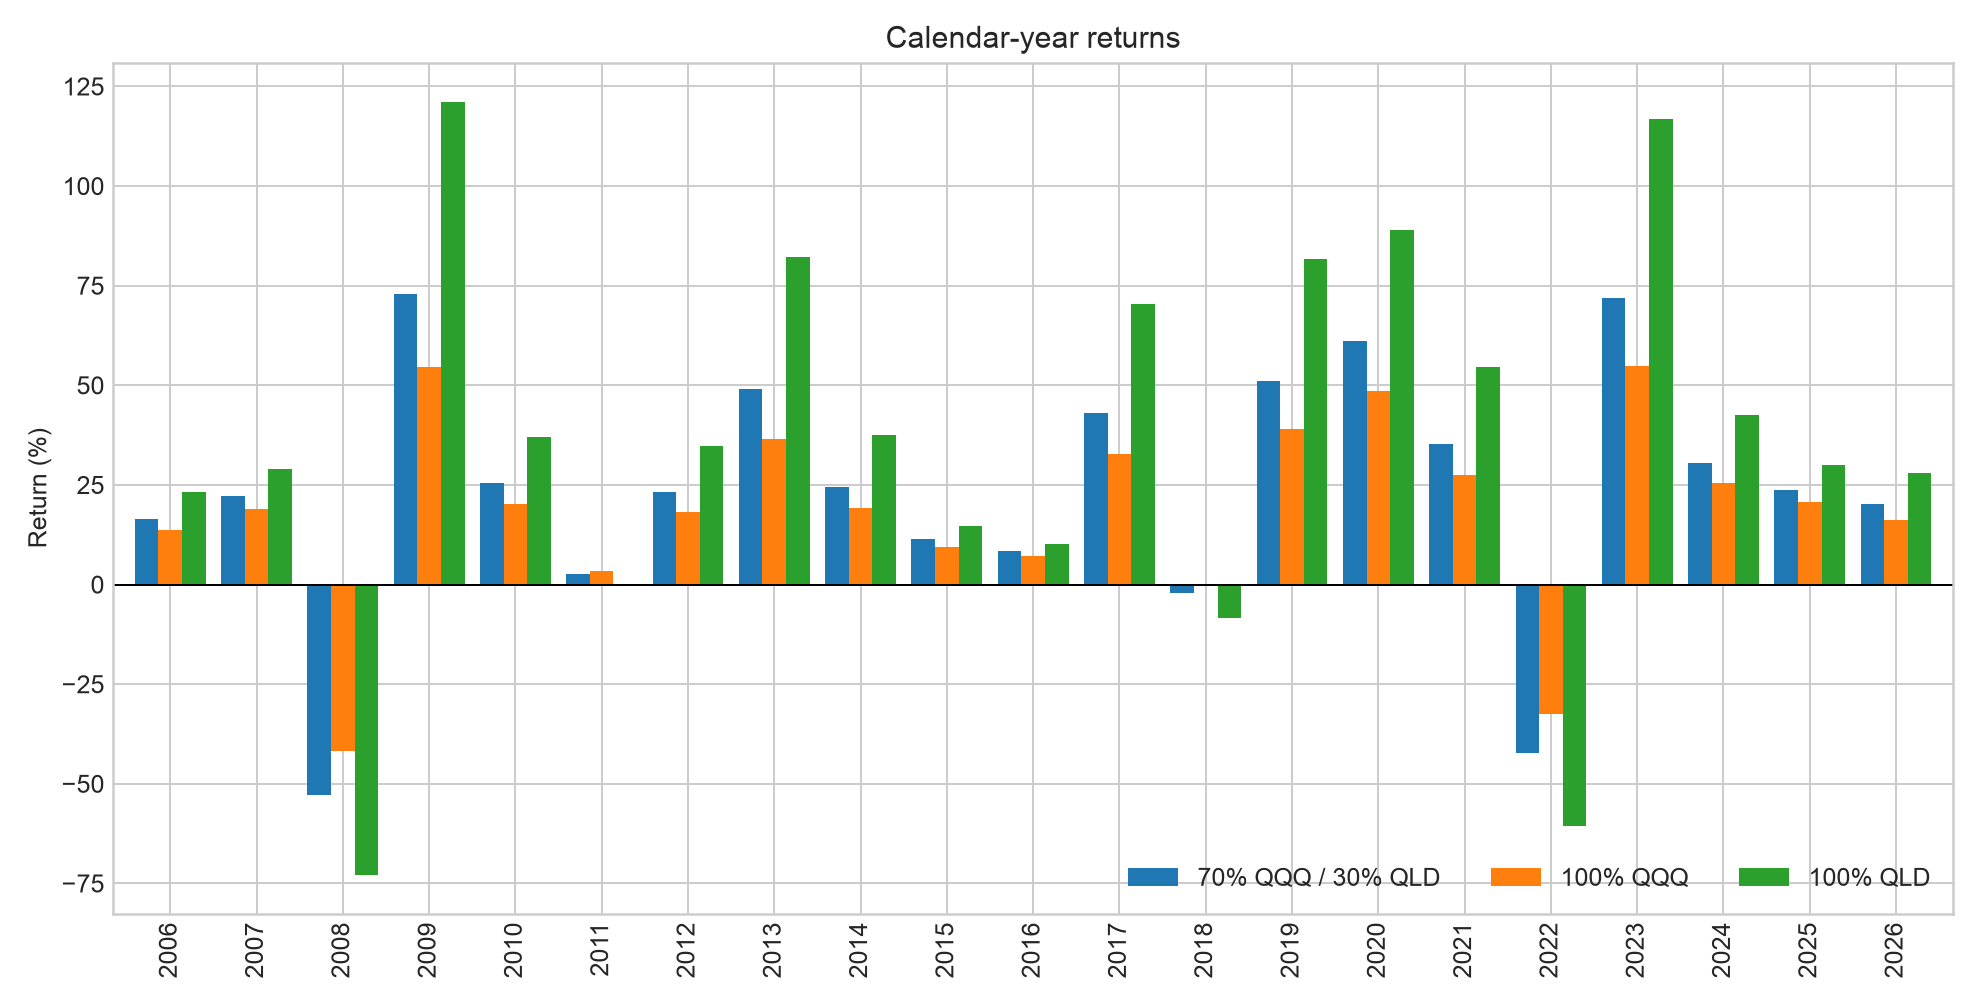
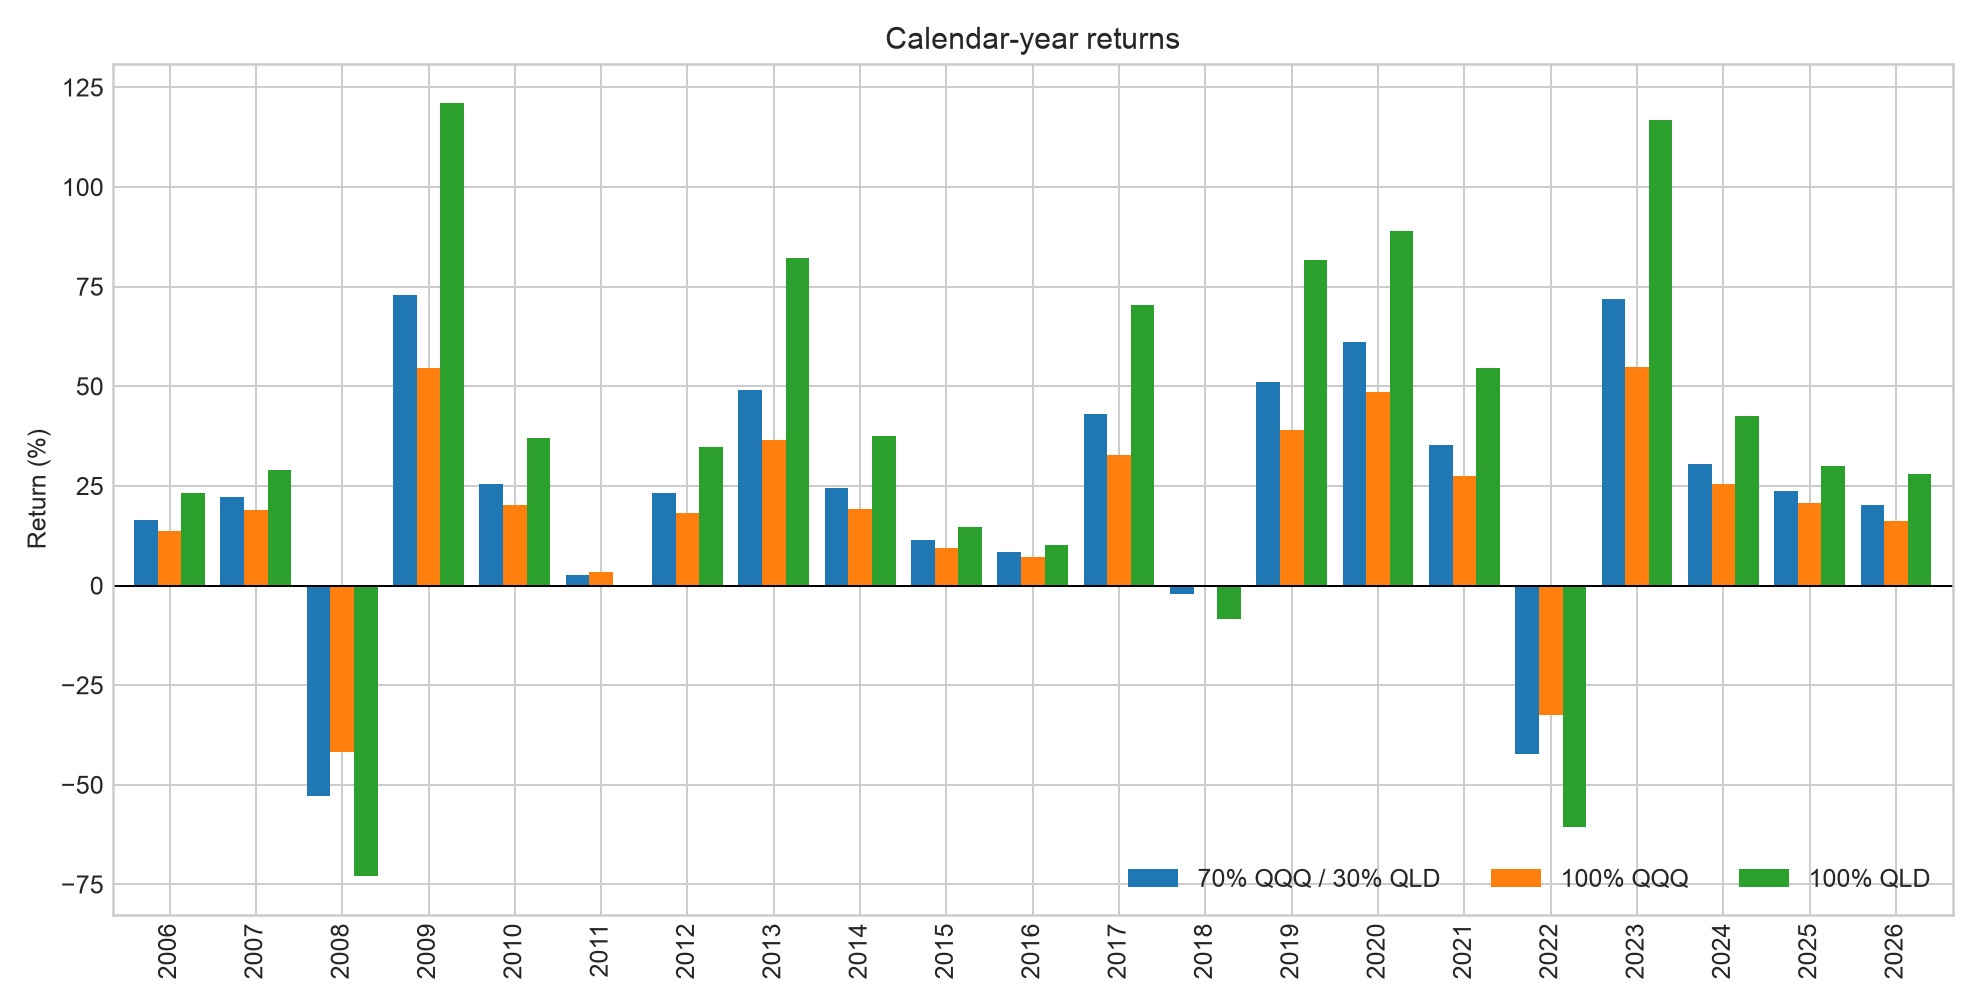
Tie the standalone 70/30 backtest to the main pipeline's leverage and mu-sensitivity findings
The dedicated 70% QQQ / 30% QLD backtest presented trailing CAGR without the
caveats the main pipeline now carries: it never quantified the gap between
this ME-rebalanced blend and the idealized 1.30x daily-reset product it
targets, and it treated the historical 19.7% CAGR without noting that Kelly
leverage is highly sensitive to unreliable forward-mu assumptions. Reuse
qqq_qld.leverage.rebalance_drag and qqq_qld.optimize.kelly_sensitivity to add
both to this backtest's own README and CSV outputs.

diff --git a/qqq-qld/backtests/qqq70_qld30/run_backtest.py b/qqq-qld/backtests/qqq70_qld30/run_backtest.py
@@ -16,13 +16,16 @@ sys.path.insert(0, str(ROOT / "src"))
 
 from qqq_qld.backtest import portfolio_returns  # noqa: E402
 from qqq_qld.data import download_prices, prices_to_returns  # noqa: E402
+from qqq_qld.leverage import rebalance_drag  # noqa: E402
 from qqq_qld.metrics import drawdown, performance_metrics  # noqa: E402
+from qqq_qld.optimize import kelly_optimal_leverage, kelly_sensitivity  # noqa: E402
 
 STRATEGIES = {
     "70% QQQ / 30% QLD": 0.30,
     "100% QQQ": 0.00,
     "100% QLD": 1.00,
 }
+TARGET_WEIGHT_QLD = 0.30
 
 
 def _strategy_returns(returns: pd.DataFrame, rebalance: str, cost_bps: float) -> pd.DataFrame:
@@ -129,11 +132,35 @@ def _pct(value: float) -> str:
     return f"{value:.1%}"
 
 
+def _kelly_sensitivity_table(
+    returns: pd.DataFrame, optimization_cfg: dict, risk_free_rate: float
+) -> pd.DataFrame:
+    """Show how the Kelly-implied weight shifts under alternative forward-mu assumptions.
+
+    sigma2 is held fixed (better estimated than mu; see docs/methodology.md section
+    6.2). The trailing sample estimate is added automatically alongside whatever
+    scenarios are configured in config/default.yaml under optimization.mu_scenarios.
+    """
+    kelly = kelly_optimal_leverage(returns, asset="QQQ", annual_risk_free_rate=risk_free_rate)
+    mu_scenarios = {
+        "Trailing sample (this backtest)": kelly["mu"],
+        **optimization_cfg.get("mu_scenarios", {}),
+    }
+    sensitivity = kelly_sensitivity(kelly["sigma2"], mu_scenarios)
+    sensitivity["this_backtest_qld_weight"] = TARGET_WEIGHT_QLD
+    sensitivity["gap_vs_half_kelly"] = (
+        TARGET_WEIGHT_QLD - sensitivity["half_kelly_qld_weight"]
+    )
+    return sensitivity
+
+
 def _write_readme(
     strategy_returns: pd.DataFrame,
     summary: pd.DataFrame,
     annual: pd.DataFrame,
     episodes: pd.DataFrame,
+    drag: dict[str, float | str],
+    sensitivity: pd.DataFrame,
     rebalance: str,
     cost_bps: float,
     initial_value: float,
@@ -161,6 +188,34 @@ def _write_readme(
     display_episodes = episodes.copy()
     if not display_episodes.empty:
         display_episodes["max_drawdown"] = display_episodes["max_drawdown"].map(_pct)
+
+    display_sensitivity = sensitivity.copy()
+    display_sensitivity["assumed_mu"] = display_sensitivity["assumed_mu"].map(_pct)
+    display_sensitivity["full_kelly_leverage"] = display_sensitivity["full_kelly_leverage"].map(
+        lambda x: f"{x:.2f}x"
+    )
+    display_sensitivity["half_kelly_leverage"] = display_sensitivity["half_kelly_leverage"].map(
+        lambda x: f"{x:.2f}x"
+    )
+    display_sensitivity["full_kelly_qld_weight"] = display_sensitivity[
+        "full_kelly_qld_weight"
+    ].map(lambda x: f"{x:.0%}")
+    display_sensitivity["half_kelly_qld_weight"] = display_sensitivity[
+        "half_kelly_qld_weight"
+    ].map(lambda x: f"{x:.0%}")
+    display_sensitivity["gap_vs_half_kelly"] = display_sensitivity["gap_vs_half_kelly"].map(
+        lambda x: f"{x * 100:+.0f}pp"
+    )
+    display_sensitivity = display_sensitivity.drop(columns=["this_backtest_qld_weight"]).rename(
+        columns={
+            "assumed_mu": "Assumed μ",
+            "full_kelly_leverage": "Full-Kelly leverage",
+            "half_kelly_leverage": "Half-Kelly leverage",
+            "full_kelly_qld_weight": "Full-Kelly QLD weight",
+            "half_kelly_qld_weight": "Half-Kelly QLD weight",
+            "gap_vs_half_kelly": "30% QLD vs. half-Kelly",
+        }
+    )
 
     lines = [
         "# 70% QQQ / 30% QLD Backtest",
@@ -204,6 +259,39 @@ def _write_readme(
             else "No drawdowns found."
         ),
         "",
+        "## This is not a fixed 1.30x position",
+        "",
+        "70% QQQ + 30% QLD targets **1.30x** exposure, but that identity only holds exactly "
+        "under **daily** rebalancing. This backtest rebalances `ME` (month-end), so between "
+        "rebalances the two legs compound independently and realized exposure drifts away from "
+        "1.30x -- the table below compares this real, cost-inclusive blend to the idealized, "
+        "frictionless synthetic 1.30x daily-reset product it targets (see `qqq_qld.leverage` and "
+        "`docs/methodology.md` section 6.1):",
+        "",
+        f"| Target exposure | Synthetic CAGR | Actual CAGR | CAGR gap | Return correlation |\n"
+        f"|---:|---:|---:|---:|---:|\n"
+        f"| {drag['target_leverage']:.2f}x | {_pct(drag['synthetic_cagr'])} | "
+        f"{_pct(drag['actual_cagr'])} | {_pct(drag['cagr_gap'])} | "
+        f"{drag['return_correlation']:.3f} |",
+        "",
+        "## Forward-looking caveat: is 30% QLD still justified?",
+        "",
+        "The full-period result above (**19.7% CAGR**) describes this specific historical "
+        "window; it is not a forecast. Kelly-optimal leverage (`L* = mu / sigma^2`) is linear in "
+        "the assumed forward return `mu` but only quadratically penalized by variance -- and "
+        "`mu` is far less reliable to estimate from trailing data than variance is. The table "
+        "below holds this sample's volatility fixed and recomputes the Kelly-implied leverage "
+        "and QLD weight under alternative forward-`mu` assumptions (editable in "
+        "`config/default.yaml` under `optimization.mu_scenarios`; see `docs/methodology.md` "
+        "section 6.2 and the main [`results/summary.md`](../../results/summary.md)):",
+        "",
+        display_sensitivity.to_markdown(),
+        "",
+        "Under the trailing sample's own historical return, Kelly leverage would justify more "
+        "than this backtest's 30% QLD weight; under the more conservative, valuation-anchored "
+        "forward-return assumption it does not. Treat 30% QLD as one point on that spectrum, "
+        "not as a conclusion this backtest can supply on its own.",
+        "",
         "## Charts",
         "",
         "![Equity curve](assets/equity_curve.png)",
@@ -226,6 +314,8 @@ def _write_readme(
         "- `results/calendar_year_returns.csv`",
         "- `results/monthly_returns.csv`",
         "- `results/largest_drawdowns.csv`",
+        "- `results/rebalance_drag.csv`",
+        "- `results/kelly_sensitivity.csv`",
         "- `assets/equity_curve.png`",
         "- `assets/drawdowns.png`",
         "- `assets/calendar_year_returns.png`",
@@ -265,6 +355,14 @@ def main() -> None:
     annual = _period_returns(strategy_returns, "Y")
     monthly = _period_returns(strategy_returns[["70% QQQ / 30% QLD"]], "M")
     episodes = _drawdown_episodes(strategy_returns["70% QQQ / 30% QLD"])
+    drag = rebalance_drag(
+        returns,
+        TARGET_WEIGHT_QLD,
+        rebalance=portfolio_cfg["rebalance"],
+        transaction_cost_bps=portfolio_cfg["transaction_cost_bps"],
+        annual_risk_free_rate=risk_free_rate,
+    )
+    sensitivity = _kelly_sensitivity_table(returns, config["optimization"], risk_free_rate)
 
     results_dir = BACKTEST_DIR / "results"
     assets_dir = BACKTEST_DIR / "assets"
@@ -273,12 +371,16 @@ def main() -> None:
     annual.to_csv(results_dir / "calendar_year_returns.csv")
     monthly.to_csv(results_dir / "monthly_returns.csv")
     episodes.to_csv(results_dir / "largest_drawdowns.csv", index=False)
+    pd.DataFrame([drag]).to_csv(results_dir / "rebalance_drag.csv", index=False)
+    sensitivity.to_csv(results_dir / "kelly_sensitivity.csv")
     _save_figures(strategy_returns, assets_dir, portfolio_cfg["initial_value"])
     _write_readme(
         strategy_returns,
         summary,
         annual,
         episodes,
+        drag,
+        sensitivity,
         portfolio_cfg["rebalance"],
         portfolio_cfg["transaction_cost_bps"],
         portfolio_cfg["initial_value"],

diff --git a/qqq-qld/backtests/qqq70_qld30/README.md b/qqq-qld/backtests/qqq70_qld30/README.md
@@ -41,6 +41,27 @@ The complete table is available in [`results/calendar_year_returns.csv`](results
 | 2024-07-10  | 2024-08-07    | 2024-11-07      | -17.5%         |                       20 |                   85 |
 | 2020-09-02  | 2020-09-23    | 2020-12-03      | -16.3%         |                       14 |                   64 |
 
+## This is not a fixed 1.30x position
+
+70% QQQ + 30% QLD targets **1.30x** exposure, but that identity only holds exactly under **daily** rebalancing. This backtest rebalances `ME` (month-end), so between rebalances the two legs compound independently and realized exposure drifts away from 1.30x -- the table below compares this real, cost-inclusive blend to the idealized, frictionless synthetic 1.30x daily-reset product it targets (see `qqq_qld.leverage` and `docs/methodology.md` section 6.1):
+
+| Target exposure | Synthetic CAGR | Actual CAGR | CAGR gap | Return correlation |
+|---:|---:|---:|---:|---:|
+| 1.30x | 21.0% | 19.7% | -1.3% | 0.999 |
+
+## Forward-looking caveat: is 30% QLD still justified?
+
+The full-period result above (**19.7% CAGR**) describes this specific historical window; it is not a forecast. Kelly-optimal leverage (`L* = mu / sigma^2`) is linear in the assumed forward return `mu` but only quadratically penalized by variance -- and `mu` is far less reliable to estimate from trailing data than variance is. The table below holds this sample's volatility fixed and recomputes the Kelly-implied leverage and QLD weight under alternative forward-`mu` assumptions (editable in `config/default.yaml` under `optimization.mu_scenarios`; see `docs/methodology.md` section 6.2 and the main [`results/summary.md`](../../results/summary.md)):
+
+| scenario                                                                      | Assumed μ   | Full-Kelly leverage   | Half-Kelly leverage   | Full-Kelly QLD weight   | Half-Kelly QLD weight   | 30% QLD vs. half-Kelly   |
+|:------------------------------------------------------------------------------|:------------|:----------------------|:----------------------|:------------------------|:------------------------|:-------------------------|
+| Trailing sample (this backtest)                                               | 17.9%       | 3.66x                 | 1.83x                 | 100%                    | 83%                     | -53pp                    |
+| Conservative (valuation-anchored ~10y CMA, e.g. Vanguard/Research Affiliates) | 6.0%        | 1.23x                 | 0.62x                 | 23%                     | 0%                      | +30pp                    |
+| Bear case (GMO-style multiple reversion)                                      | -4.0%       | -0.82x                | -0.41x                | 0%                      | 0%                      | +30pp                    |
+| Bull case (AI upside exceeds current consensus)                               | 12.0%       | 2.46x                 | 1.23x                 | 100%                    | 23%                     | +7pp                     |
+
+Under the trailing sample's own historical return, Kelly leverage would justify more than this backtest's 30% QLD weight; under the more conservative, valuation-anchored forward-return assumption it does not. Treat 30% QLD as one point on that spectrum, not as a conclusion this backtest can supply on its own.
+
 ## Charts
 
 ![Equity curve](assets/equity_curve.png)
@@ -63,6 +84,8 @@ Generated files:
 - `results/calendar_year_returns.csv`
 - `results/monthly_returns.csv`
 - `results/largest_drawdowns.csv`
+- `results/rebalance_drag.csv`
+- `results/kelly_sensitivity.csv`
 - `assets/equity_curve.png`
 - `assets/drawdowns.png`
 - `assets/calendar_year_returns.png`
